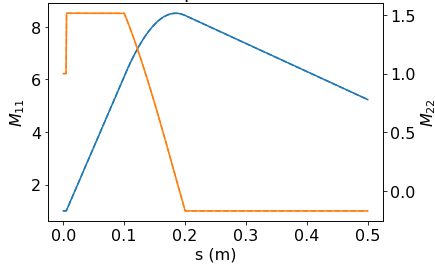
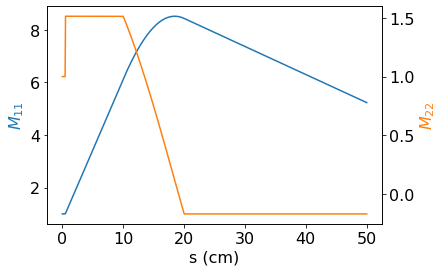
updates README.md to reflect new high level solver

Changed region(s): [[0.0598, 0.0, 1.0, 0.9814], [0.0, 0.3569, 0.0598, 0.4758]]

diff --git a/README.md b/README.md
@@ -22,15 +22,17 @@ OK
 
 You should see an indication that all tests pass successfully.
 
-## Quickstart Guide
+## Quick-start Guide
 
 To calculate linear transfer matrices, you're going to need fieldmaps for all of the elements in your system.  We're going to pick up the script after you have already calculated the fields (Ez and Bz) along the axis of the beamline.  The fields and positions must be in SI units: MV/m, Tesla, and meters.  I'll be using the following fields as an examples.
 
 ![Fields](assets/fields.png)
 
-The first step is to interpolate the fields onto a set of points which we will use in the numerical evaluation of the ODE.  The solver requires that the fields are interpolated on an evenly spaced set of points.  The number of points used here will determine the accuracy of the solution so be sure to use enough for your application.  See the section on convergence for a more detailed discussion of choosing the number of points.
+Once we have the fields, we can make the call to the solver and get the transfer matrix.  The transfer matrix will be returned in [x, px] phase space as opposed to [x, x'] trace space which is common in accelerator physics.  This is done because the angle x' becomes ill-determined when particles have zero longitudinal momentum as is the case at the start of integration in guns.
 
-Once we have the interpolated fields, we can make the call to the solver and get the transfer matrix.  The transfer matrix will be returned in [x, px] phase space as opposed to [x, x'] trace space which is common in accelerator physics.  This is done because the angle x' becomes ill-determined when particles have zero longitudinal momentum as is the case at the start of integration in guns.
+The solver accepts a step size `h` in meters which will determine the accuracy of the resulting matrices.  See the section on convergence properties for a detailed discussion of how to choose this.  In my experience, setting `h = ~1e-6` is suitable for most accelerator physics applications.
+
+The following example will setup some test fields and then solve for the resulting transfer matrix.
 
 ```python
 # Load belinear and numpy
@@ -38,79 +40,171 @@ import belinear
 import numpy as np
 
 # Compute the fields on axis (replace with your code)
-z_raw  = np.linspace(0, 0.5, 1000)
-Ez_raw = (z_raw<0.005)*10e3/5e-3
-Bz_raw = np.bitwise_and(z_raw > 0.1, z_raw < 0.2) * 6e-3
+z   = np.linspace(0, 0.5, 1000)
+Ez = (z_raw<0.005)*10e3/5e-3
+Bz = np.bitwise_and(z_raw > 0.1, z_raw < 0.2) * 6e-3
 
-# Interpolate to the points used in ODE solving
-z       = np.linspace(z_raw.min(), z_raw.max(), 10000)
-delta_z = z[1] - z[0]
-Ez      = np.interp(z, z_raw, Ez_raw)
-Bz      = np.interp(z, z_raw, Bz_raw)
+# Set the solver step size
+h = 5e-6
 
-# Calculate the linear transport matrix
-M = belinear.get_M(Ez, Bz, delta_z)
+# Solver for the transfer matrix
+M = belinear.get_M(z, Ez, Bz, h)
 ```
 
 Note: this will start the particles with no longitudinal velocity and so we require that Ez(z=0) != 0.  To start with non-zero longitudinal energy, set the appropriate option.
 
 ```python
-# Calculate the linear transport matrix
-M = belinear.get_M(Ez, Bz, delta_z, gamma_initial=2)
+# Calculate the transport matrix
+M = belinear.get_M(z, Ez, Bz, h, gamma_initial=2)
 ```
 
-BeLinear also supports multiple ODE solvers.  We have been using the default option which is the midpoint method.  This is expected to the best option for most cases, however you may change which solver is used with the optional argument.
+BeLinear also supports multiple ODE solvers.  We have been using the default option which is the midpoint method.  This is expected to be the best option for most cases, however you may change which solver is used with the optional argument `method`.
 
 ```python
 # Calculate the linear transport matrix
-M = belinear.get_M(Ez, Bz, delta_z, method='<method name>')
+M = belinear.get_M(z, Ez, Bz, h, method='<method name>')
 ```
 
 The solvers supported by BeLinear are:
 
 * "midpoint" - The [midpoint rule or modified Euler's method](https://en.wikipedia.org/wiki/Midpoint_method) is a symplectic integrator with second order global convergence.  It shows excellent accuracy for Hamiltonian systems with a low number of steps and preserves the symplectic form.  This is the default option in BeLinear and shows the best convergence for regularly used field configurations.
 * "implicit_euler" - This method is the well known [implicit Euler's method](https://en.wikipedia.org/wiki/Backward_Euler_method).  It's has first order global convergence and better stability than forwards Euler for some systems.
-* "constant_field" - Adapted from the paper "Gulliford, C., & Bazarov, I. (2012).  PRAB, 15(2), 024002".  It iterates the solution to [x1'(z), x2'(z)] = [[A, B], [C, D]]*[x1(z), x2(z)] for values of A, B, C, and D computed from the fields.  That is, it assumes constant coefficients in the ODE, but not necesarily constant fields since the coefficients also depend on gamma which changes in the presence of constant E fields.
+* "constant_field" - Adapted from the paper "Gulliford, C., & Bazarov, I. (2012).  PRAB, 15(2), 024002".  It iterates the solution to [x1'(z), x2'(z)] = [[A, B], [C, D]]*[x1(z), x2(z)] for values of A, B, C, and D computed from the fields.  That is, it assumes constant coefficients in the ODE, but not necessarily constant fields since the coefficients also depend on gamma which changes in the presence of constant E fields.
 
-Belinear also support cummulative output of the transfer matrices as one big numpy array of shape (2,2,N).  This function has all the same options as the normal solver call.
+BeLinear also support cumulative output of the transfer matrices as one big numpy array of shape (2,2,N).  This function has all the same options as the normal solver call.  The following example will generate the cumulative matrices and plot all of them.
 
 ```python
-# Calculate the linear transport matrix with cumulative output
-M_cum = belinear.get_cum_M(Ez, Bz, delta_z)
+# Load belinear and numpy
+import belinear
+import numpy as np
+import matplotlib.pyplot as plt
+
+# Compute the fields on axis (replace with your code)
+z   = np.linspace(0, 0.5, 1000)
+Ez = (z_raw<0.005)*10e3/5e-3
+Bz = np.bitwise_and(z_raw > 0.1, z_raw < 0.2) * 6e-3
+
+# Set the solver step size
+h = 5e-6
+
+# Solver for the transfer matrices
+M = belinear.get_cum_M(z, Ez, Bz, 5e-6)
+
+# Get the positions matrices are output at
+zM = np.arange(min(z), max(z), h)
+
+# Plot the resulting dynamics
+plt.plot(zM*1e2, M[0,0,:], c="C0")
+plt.xlabel("s (cm)")
+plt.ylabel("$M_{11}$", c="C0")
+plt.twinx()
+plt.plot(zM*1e2, M[1,1,:], c="C1")
+plt.ylabel("$M_{22}$", c="C1")
 ```
 
 Plotting the matrix elements against position gives the following plot.
 
 ![Matrix elements](assets/matrix_elements.png)
 
-The final options for computing matrices revolve around finding the matrix "B" in the analysis of voltage scan data.  This is the nx2 matrix where the rows are M11^2 and M12^2 as the gun's voltage is varied.  There is a higher level wrapper function for the voltage scan called get_B which accepts a numpy array of voltages in the method, a filename to a tab delimited fieldmap of the anode, the position of the screen, and the number of steps to use in the solver.  See the reference section for more detail.
+This is also useful for calculating beam size along the system as in the following example.
+
+```python
+# Load belinear and numpy
+import belinear
+import numpy as np
+import matplotlib.pyplot as plt
+
+# Compute the fields on axis (replace with your code)
+z   = np.linspace(0, 0.5, 1000)
+Ez = (z_raw<0.005)*10e3/5e-3
+Bz = np.bitwise_and(z_raw > 0.1, z_raw < 0.2) * 6e-3
+
+# Set the solver step size
+h = 5e-6
+
+# Solver for the transfer matrices
+M = belinear.get_cum_M(z, Ez, Bz, 5e-6)
+
+# Get the positions matrices are output at
+zM = np.arange(min(z), max(z), h)
+
+# Set initial beam parameters (25 um RMS spot size, 25 meV MTE)
+# and solve for them along beamline
+x  = np.array([25e-6, np.sqrt(25e-3/511e3)])
+xM = np.sqrt((x**2 @ (M**2).T).T)
+
+# Plot beam size
+plt.plot(zM*1e2, xM[0,:]*1e6)
+plt.xlabel("s (cm)")
+plt.ylabel("$\sigma_x$ (um)")
+```
+
+This should output the following plot of beam size.
+
+![Spot size](assets/beam_size.png)
 
 ## Convergence Properties
 
-To test the convergence properties run the solver with a smaller step size than you would reasonably use (h = 1e-7 m for instance) and use the output as a "ground truth" results of what the matrix should be.  Run the solver again for you system while changing the step size and monitor the error.  If your step size was small enough in the previous step then you see assymptotically power law convergence of the global error.  As an example, I have computed the global error vs step size for the field map at the top of the file and for the three solvers included in Belinear.  First off is the midpoint method.
+To test the convergence properties run the solver with a smaller step size than you would reasonably use (h = 1e-8 m for instance) and use the output as a "ground truth" results of what the matrix should be.  Run the solver again for you system while changing the step size and monitor the error.  If your step size was small enough in the previous step then you see asymptotically power law convergence of the global error.  As an example, I have computed the maximum global error vs step size for the field map at the top of the file and for the three solvers included in BeLinear.
 
-![Midpoint convergence](assets/midpoint.png)
+```python
+# Load belinear and numpy
+import belinear
+import numpy as np
 
-![Implicit Euler](assets/implicit_euler.png)
+# Compute the fields on axis (replace with your code)
+z   = np.linspace(0, 0.5, 1000)
+Ez = (z_raw<0.005)*10e3/5e-3
+Bz = np.bitwise_and(z_raw > 0.1, z_raw < 0.2) * 6e-3
 
-![Constant-Field convergence](assets/constant_field.png)
+# Set the solver step size for our reference matrix
+h_ref = 1e-8
 
-From this you can immediately see the higher order convergence of the midpoint method and its superior error compared to the implicit Euler and constant-field methods.  The author has found that a good tradeoff between speed and accuracy for the analysis of low voltage guns is to use a step size of h = 10 um (about 1E4 steps inside of the gun). 
+# Solver for the transfer matrices
+M_ref = belinear.get_M(z, Ez, Bz, h_ref)
+
+# Get matrices for a wide variety of step size
+hs = np.exp(np.linspace(np.log(1e-7), np.log(1e-4), 25))
+M_midpoint = np.array([belinear.get_M(z, Ez, Bz, h, method="midpoint") for h in hs])
+M_implicit_euler = np.array([belinear.get_M(z, Ez, Bz, h, method="implicit_euler") for h in hs])
+M_constant_field = np.array([belinear.get_M(z, Ez, Bz, h, method="constant_field") for h in hs])
+
+# Compute the max relative error
+err_midpoint = np.abs((M_midpoint-M_ref)/M_ref).max(axis=1).max(axis=1)
+err_implicit_euler = np.abs((M_implicit_euler-M_ref)/M_ref).max(axis=1).max(axis=1)
+err_constant_field = np.abs((M_constant_field-M_ref)/M_ref).max(axis=1).max(axis=1)
+
+# Plot the relative error
+plt.loglog(hs, err_midpoint, ls="none", marker="x", label="Midpoint")
+plt.loglog(hs, err_implicit_euler, ls="none", marker="x", label="Euler")
+plt.loglog(hs, err_constant_field, ls="none", marker="x", label="Constant")
+plt.xlabel("h (m)")
+plt.ylabel("Max. Relative Error")
+plt.legend()
+```
+
+This example will produce the following output.
+
+![Midpoint convergence](assets/convergence.png)
+
+From this, the higher order convergence of the midpoint method is clear.  The step size can now be selected based off of the trade-off between speed and accuracy.  For many applications, a step size of between 1 um and 10 um will be adequate and provide excellent performance.
 
 ## Reference
 
-##### get_M(Ez, Bz, delta_z, gamma_initial=1, method='midpoint')
+##### get_M(z, Ez, Bz, h, gamma_initial=1, method='midpoint')
 
-Primary interface to the solver.  Please call this from user code to calculate the linear transport matrices from the fields Ez and Bz sampled at constant interval.  The number of steps used by the solver is just the number of field points passed to the method.
+Primary interface to the solver.  Please call this from user code as opposed to the low level functions to calculate the linear transport matrices from the fields Ez and Bz sampled at points z.  Convergence is controlled by the step size h.
 
 ###### Parameters
 
+* z: array_like
+      Positions of the field samples in meters.
 * Ez: array_like
-      The z component of the on-axis electric field in MV/m.  A (n,) shape array.
+      The z component of the on-axis electric field in MV/m.  An (n,) shape array.
 * Bz: array_like
-      The z component of the on-axis magnetic field in Tesla.  A (n,) shape array.
-* delta_z: float
-      The spacing between samples of the field in meters
+      The z component of the on-axis magnetic field in Tesla.  An (n,) shape array.
+* h: float
+      Solver step size in meters.
 * gamma_initial: float
       The relativistic gamma factor of the beam at the start of the region of integration
 * method: str
@@ -121,18 +215,20 @@ Primary interface to the solver.  Please call this from user code to calculate t
 * M: array_like
       The linear transport matrix in [x, px] phase space.  A (2,2) numpy array.
 
-##### get_cum_M(Ez, Bz, delta_z, gamma_initial=1, method='midpoint')
+##### get_cum_M(z, Ez, Bz, h, gamma_initial=1, method='midpoint')
 
-The same solver function as "get_M" except that it will output the transfer matrices at every step as well as at the end.  Useful for plotting particle trajectories.
+The same solver function as "get_M" except that it will output the transfer matrices at every step taken by the solver.  Useful for plotting particle trajectories.
 
 ###### Parameters
 
+* z: array_like
+      Positions of the field samples in meters.
 * Ez: array_like
-      The z component of the on-axis electric field in MV/m.  A (n,) shape array.
+      The z component of the on-axis electric field in MV/m.  An (n,) shape array.
 * Bz: array_like
-      The z component of the on-axis magnetic field in Tesla.  A (n,) shape array.
-* delta_z: float
-      The spacing between samples of the field in meters
+      The z component of the on-axis magnetic field in Tesla.  An (n,) shape array.
+* h: float
+      Solver step size in meters.
 * gamma_initial: float
       The relativistic gamma factor of the beam at the start of the region of integration
 * method: str
